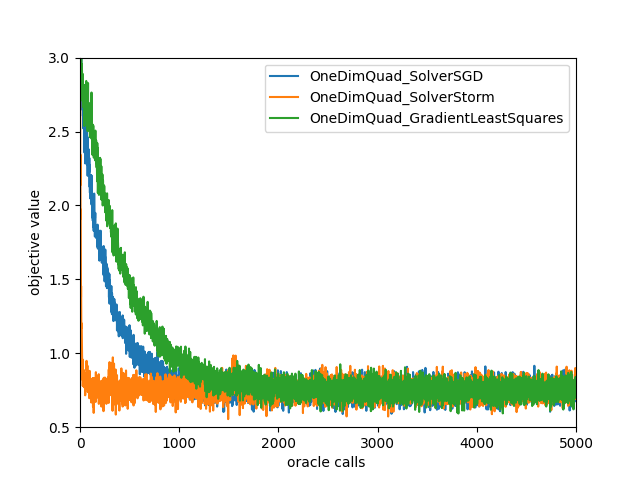
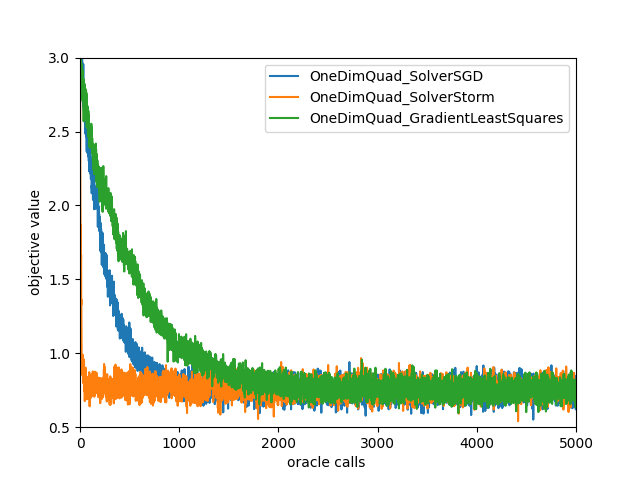
solve linear regression

Changed region(s): [[0.125, 0.1562, 0.9062, 0.875]]

diff --git a/optimization/solvers/GradientLeastSquares.py b/optimization/solvers/GradientLeastSquares.py
@@ -25,6 +25,23 @@ class GradientLeastSquares(Solver):
         self.alpha = alpha
         super().__init__(oracle, None, l, max_iter, None, lr, 1, 0)
 
+    def compute_cost(self, X, y, theta):
+        m = len(y)
+        h = np.matmul(X, theta)
+        return 1 / (2 * m) * np.linalg.norm(h - y, ord=2) ** 2
+
+    def least_squares_SGD(self, c, A, theta, num_iters, gamma, ):
+        m = c.shape[0]
+        models = []
+        for iter in range(num_iters):
+            random_idx = np.random.randint(m)
+            # update weights
+            theta = theta - gamma * np.transpose(A[random_idx]) * (np.matmul(A[random_idx], theta) - c[random_idx])
+            models.append(np.copy(theta))
+            # best_model_idx = np.argmin(val_loss)
+        return models[-1]
+
+
     def get_x_js(self, x_t):
         """
         Args:
@@ -34,7 +51,7 @@ class GradientLeastSquares(Solver):
          a matrix with the shape of (self.j1, x_t.shape[0]) OR (self.j1, param_num)
 
         """
-        return x_t + np.random.rand(self.j1, x_t.shape[0])
+        return x_t + 0.1*(np.random.rand(self.j1, x_t.shape[0])-0.5)
 
     def run(self, x_t, **kwargs):
         print("GradientLeastSquares optimizing... ")
